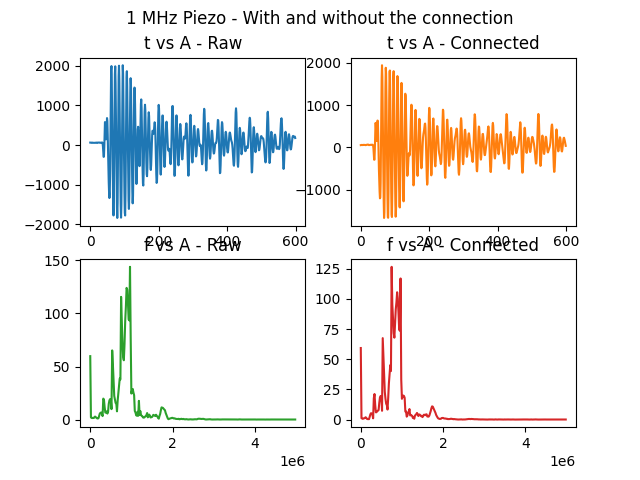
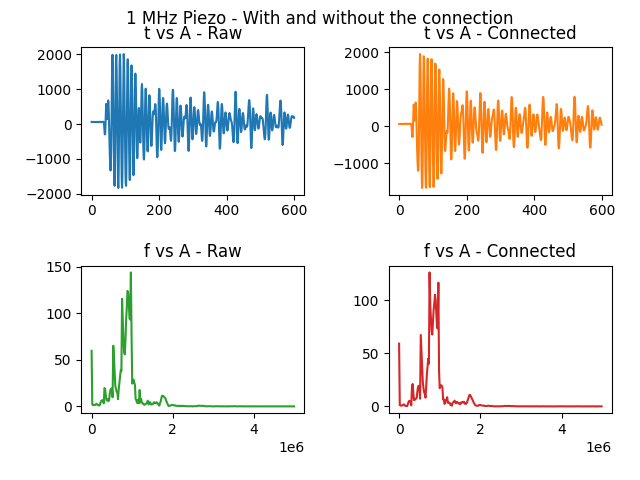
Final changes to the code

diff --git a/DataViz/comparison.py b/DataViz/comparison.py
@@ -44,6 +44,7 @@ axs[1, 0].set_title('f vs A - Raw')
 axs[1, 1].plot(frequencies_connected, abs(fourier_connected), 'tab:red')
 axs[1, 1].set_title('f vs A - Connected')
 
+fig.tight_layout(pad=1.8)
 fig.suptitle("1 MHz Piezo - With and without the connection")
 plt.savefig("Results - Raw vs Connected")
 plt.show()
